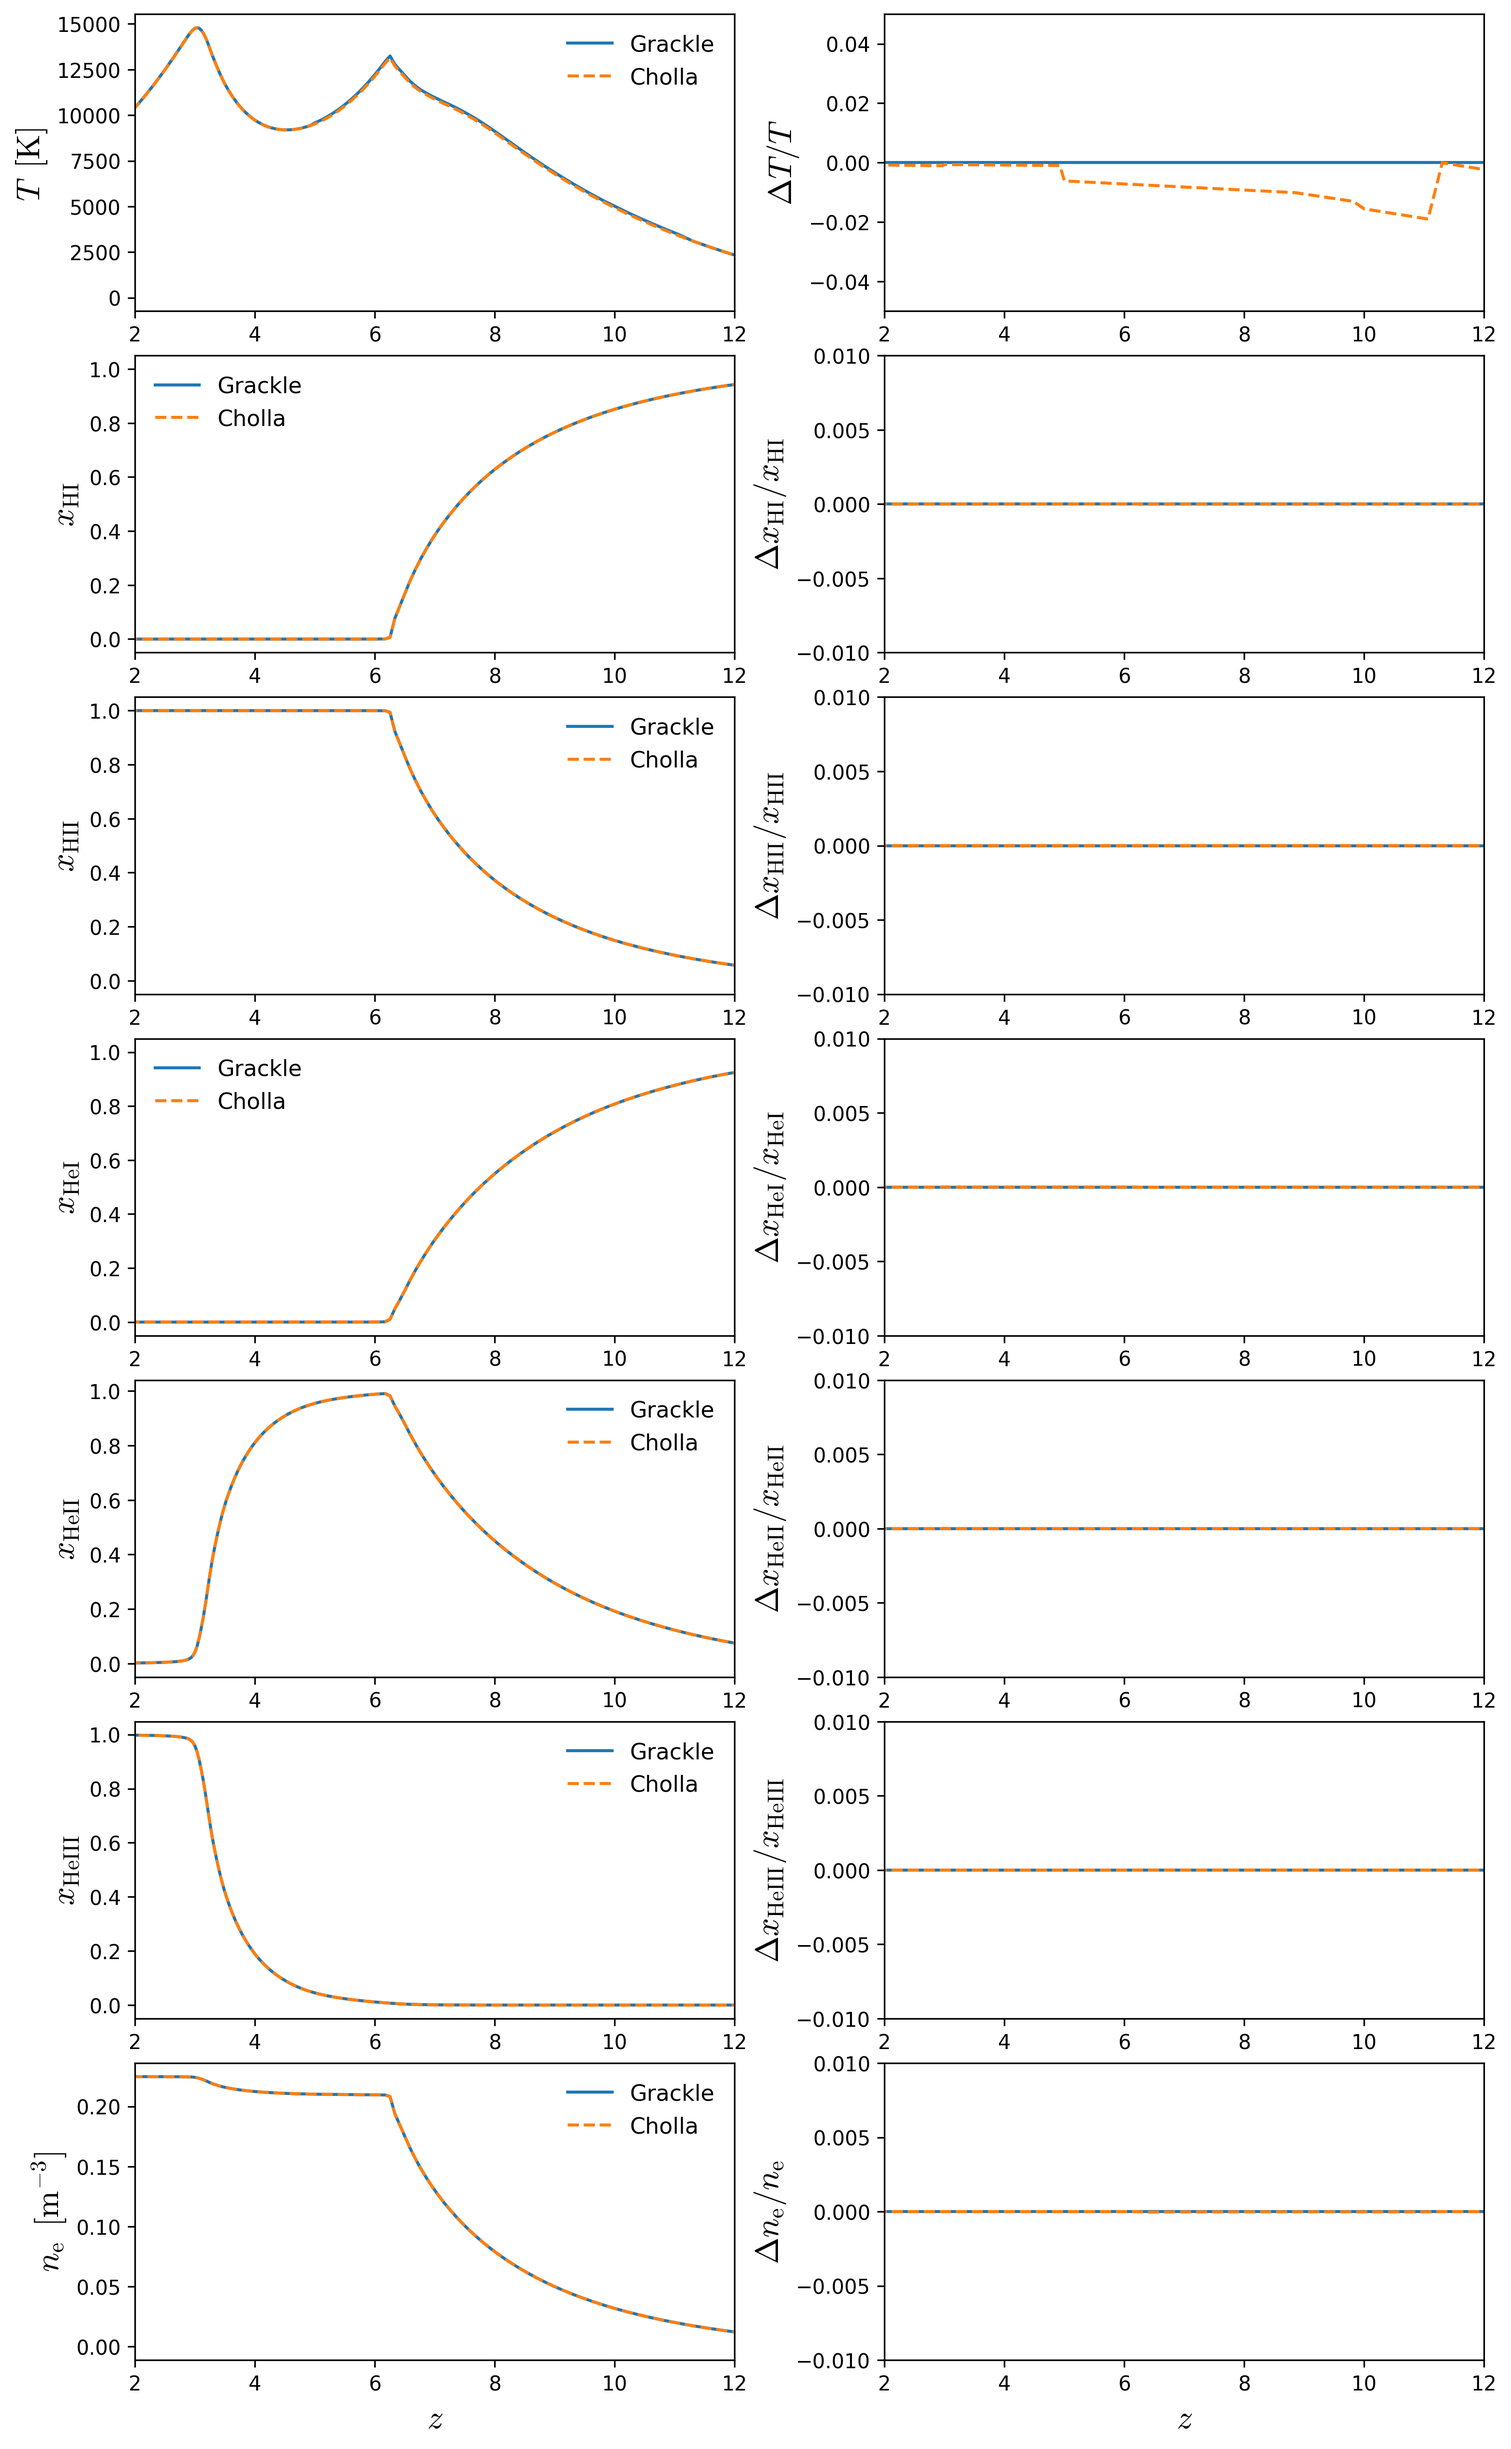
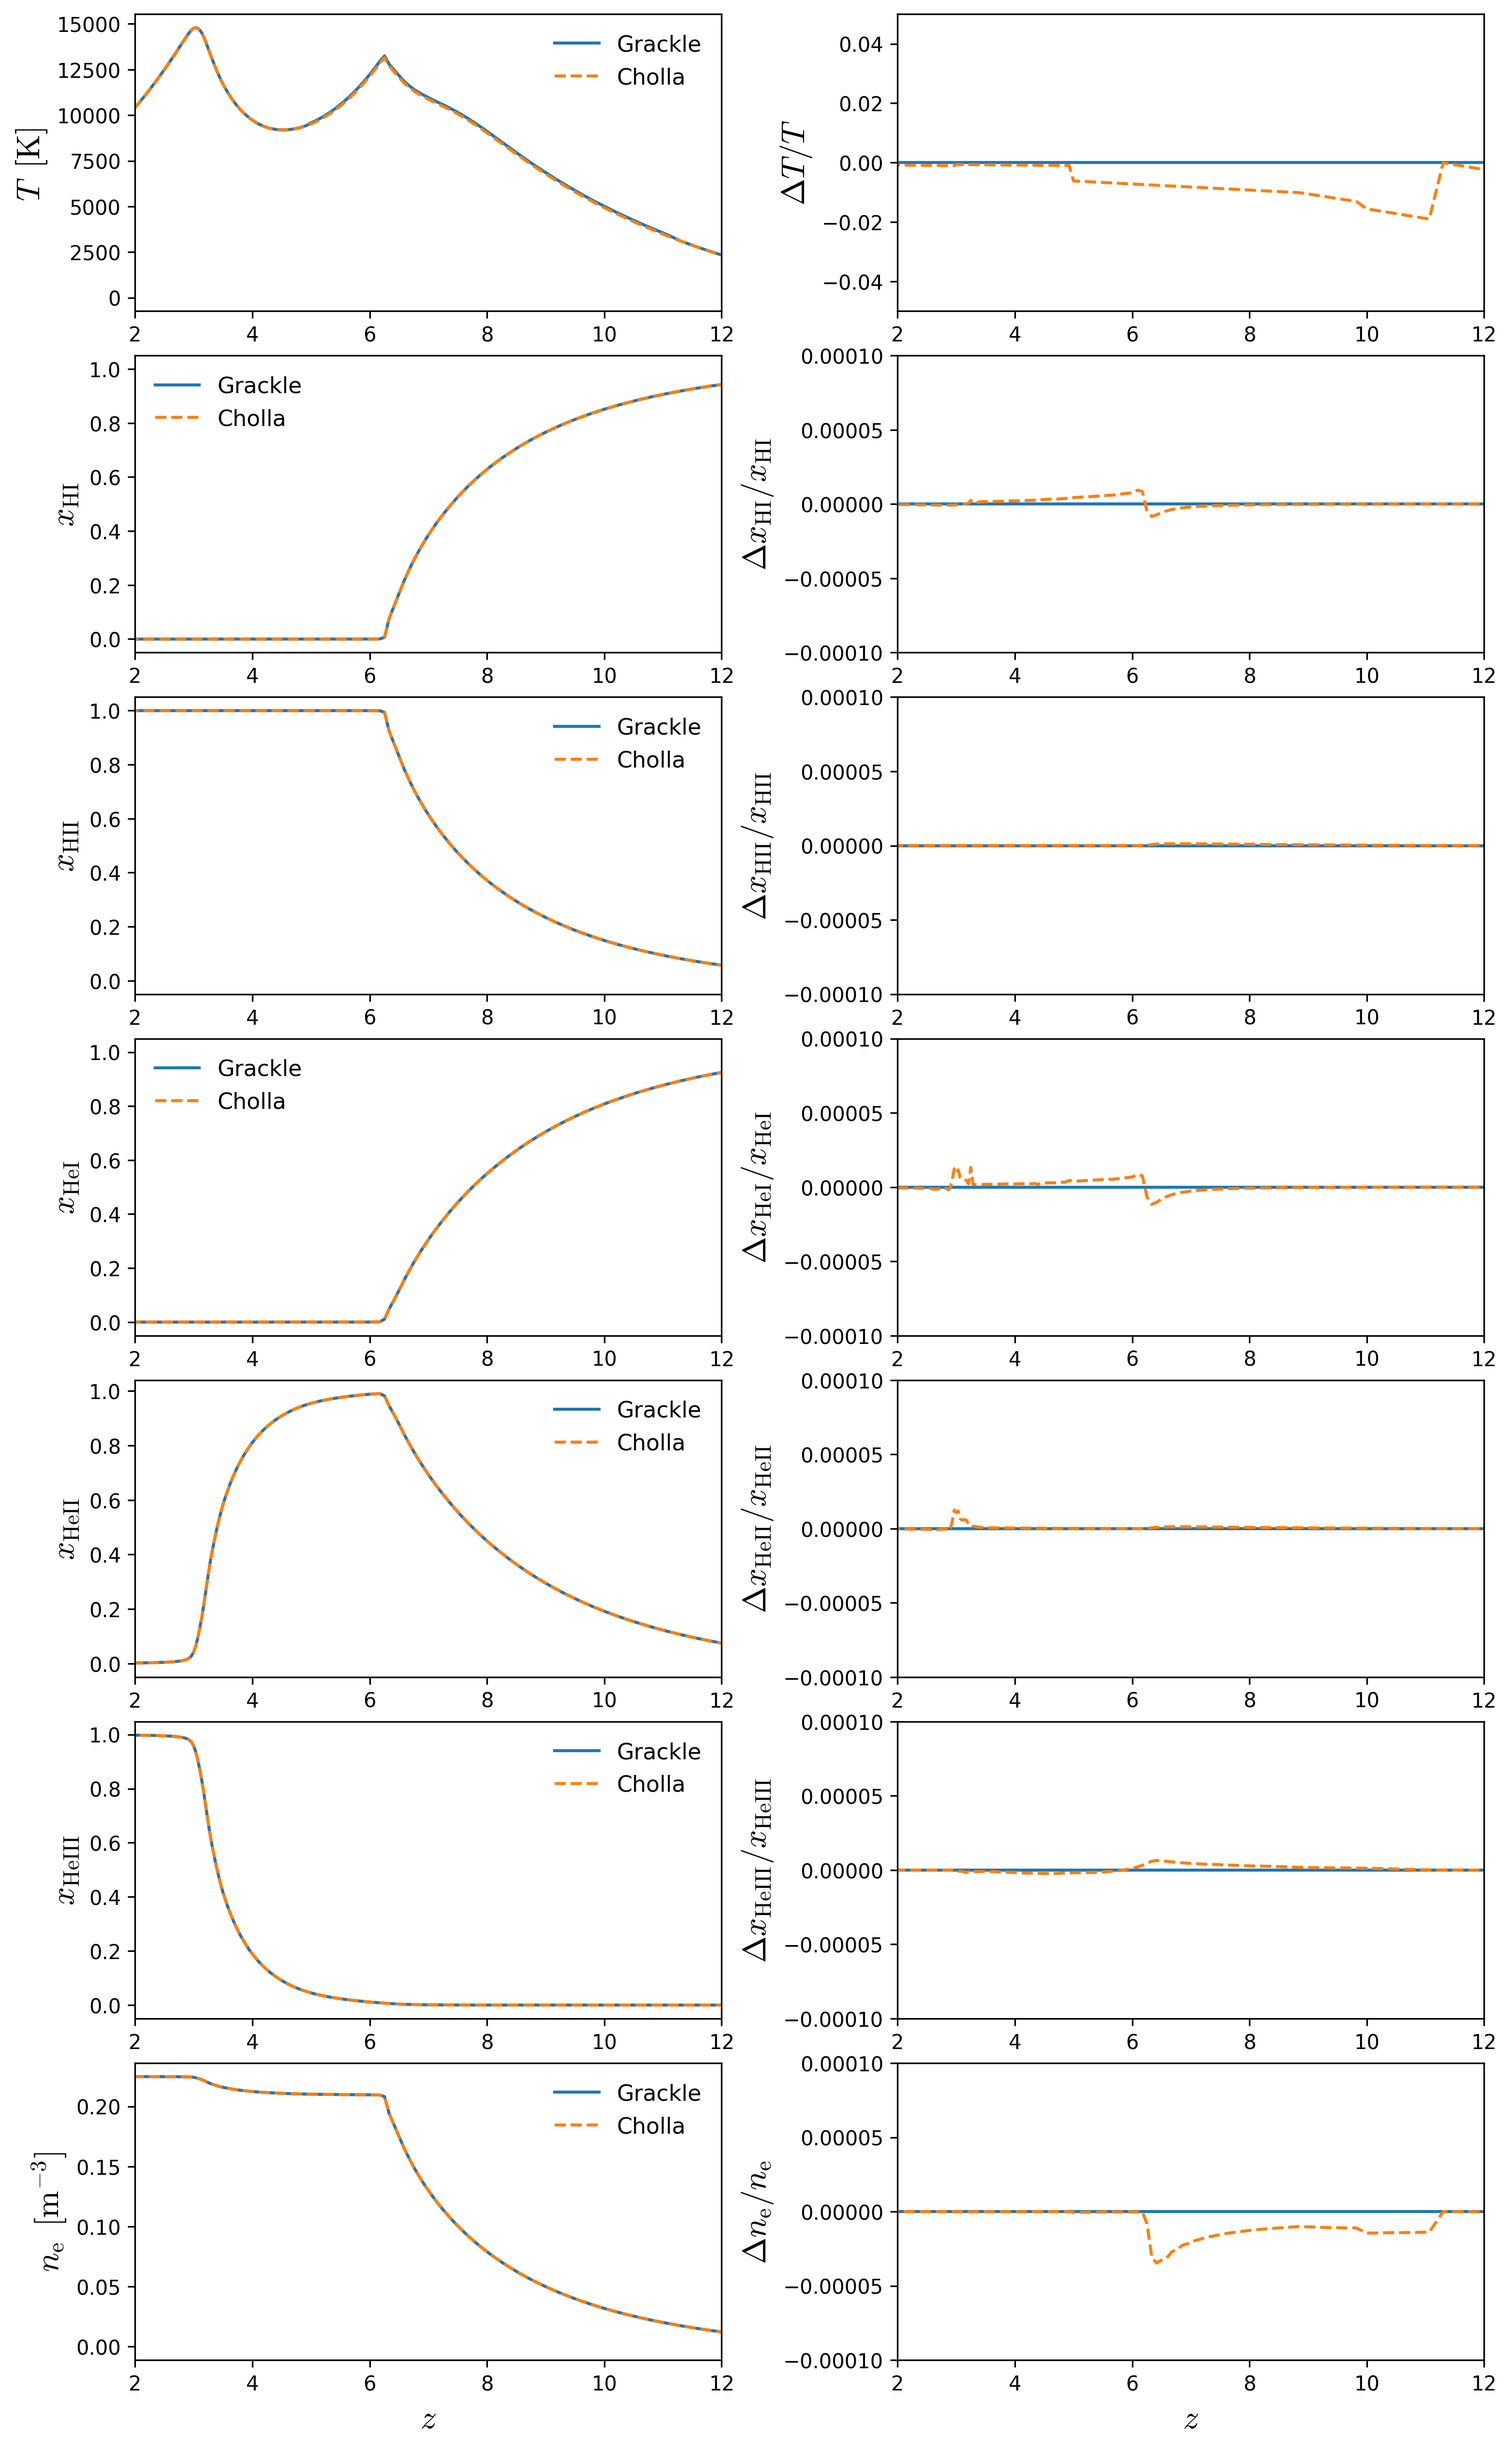
updated figure

diff --git a/astro/_posts/2022-01-29-cholla_chemistry_new.md b/astro/_posts/2022-01-29-cholla_chemistry_new.md
@@ -15,7 +15,7 @@ The evolution of the temperature and the abundances of the chemical species are 
 
 <img src="{{ site.url }}assets/images/cholla_chem_validation_fixed/single_cell_comparison_new.png">
   
-
+There are some small differences around 2% in the temperature. The ionization states of H and He seem extremely close showing differences smaller than 0.002% !!!
 
 ### Density-Temperature distribution
 
